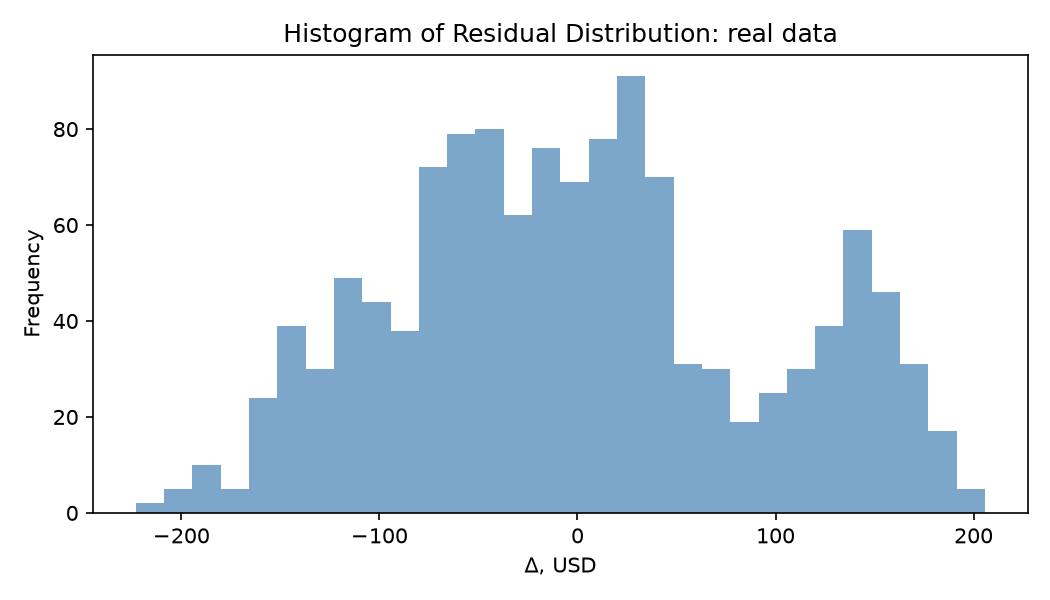
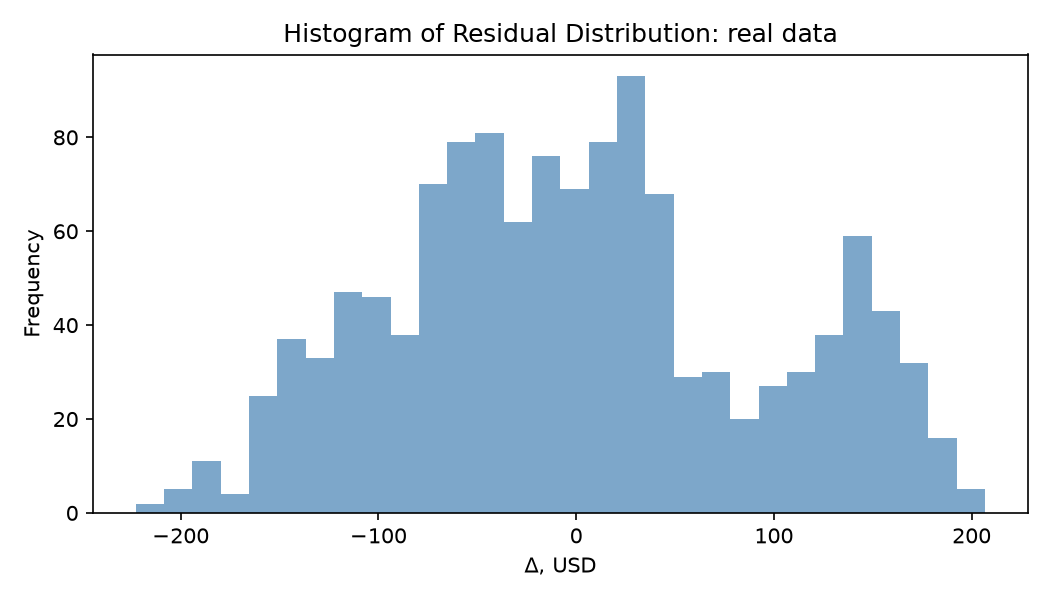
updated Lab 1

diff --git a/Lab_work_1/analysis.py b/Lab_work_1/analysis.py
@@ -1,7 +1,7 @@
 # BlackRock (BLK) preprocessing and analysis of historical stock prices from Yahoo Finance.
 
 """
-1) Trend identification and residual analysis.
+1) Trend identification with Least Squares Method and residual analysis.
 2) Residual statistical characteristics (mean, variance, std, histogram).
 3) Synthesizing an additive model B_measured = B_ideal + xi with matching characteristics.
 4) Verification: comparing the synthetic series against the real data.
